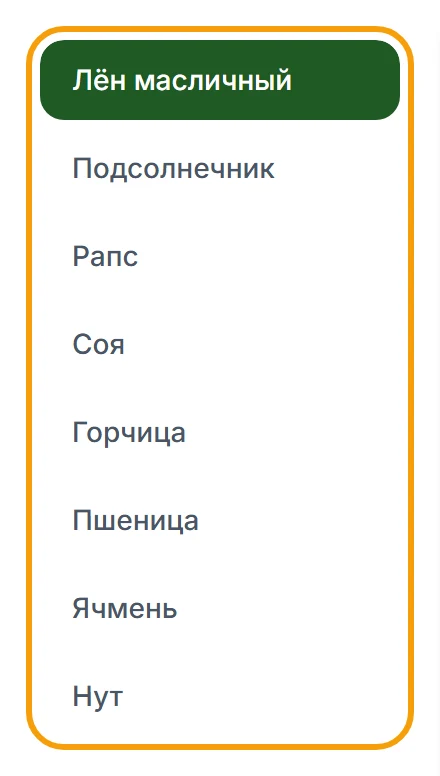
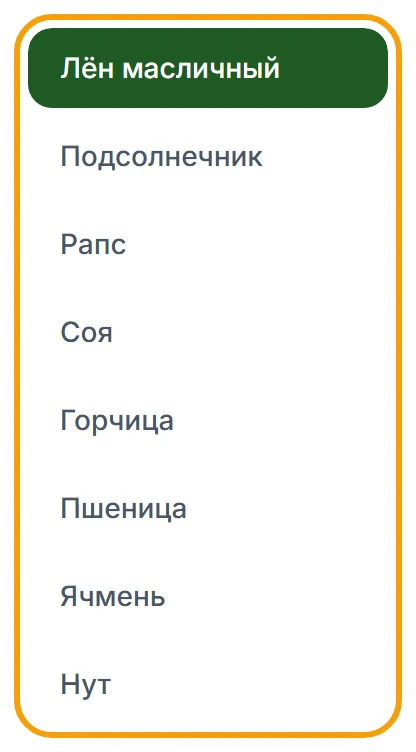
Аккуратные скриншоты инструкции: чистые углы
Кадр режется ровно по элементу, скругление у окна на время съёмки
убирается; скругление, тень и рамку добавляет окно инструкции.
Бот снимается без чёрной рамки телефона.

diff --git a/components/market/GuideDialog.tsx b/components/market/GuideDialog.tsx
@@ -91,8 +91,14 @@ export default function GuideDialog({ onClose }: { onClose: () => void }) {
         </button>
 
         {/* Скриншот */}
-        <div className="relative flex-1 min-w-0 min-h-[46vh] lg:min-h-0 bg-[#eef2ea]">
-          <img key={step.image} src={asset(step.image)} alt={step.title} className="absolute inset-0 w-full h-full object-contain p-2 md:p-4 agr-fade" />
+        <div className="flex-1 min-w-0 min-h-0 h-[44vh] lg:h-auto flex items-center justify-center p-3 md:p-5 bg-[#eef2ea]">
+          {/* Скругление, тень и рамка — у самой картинки, поэтому углы чистые */}
+          <img
+            key={step.image}
+            src={asset(step.image)}
+            alt={step.title}
+            className="block max-w-full max-h-full w-auto h-auto rounded-xl bg-white shadow-[0_8px_30px_-12px_rgba(16,40,20,0.35)] ring-1 ring-black/5 agr-fade"
+          />
         </div>
 
         {/* Текст и управление */}
